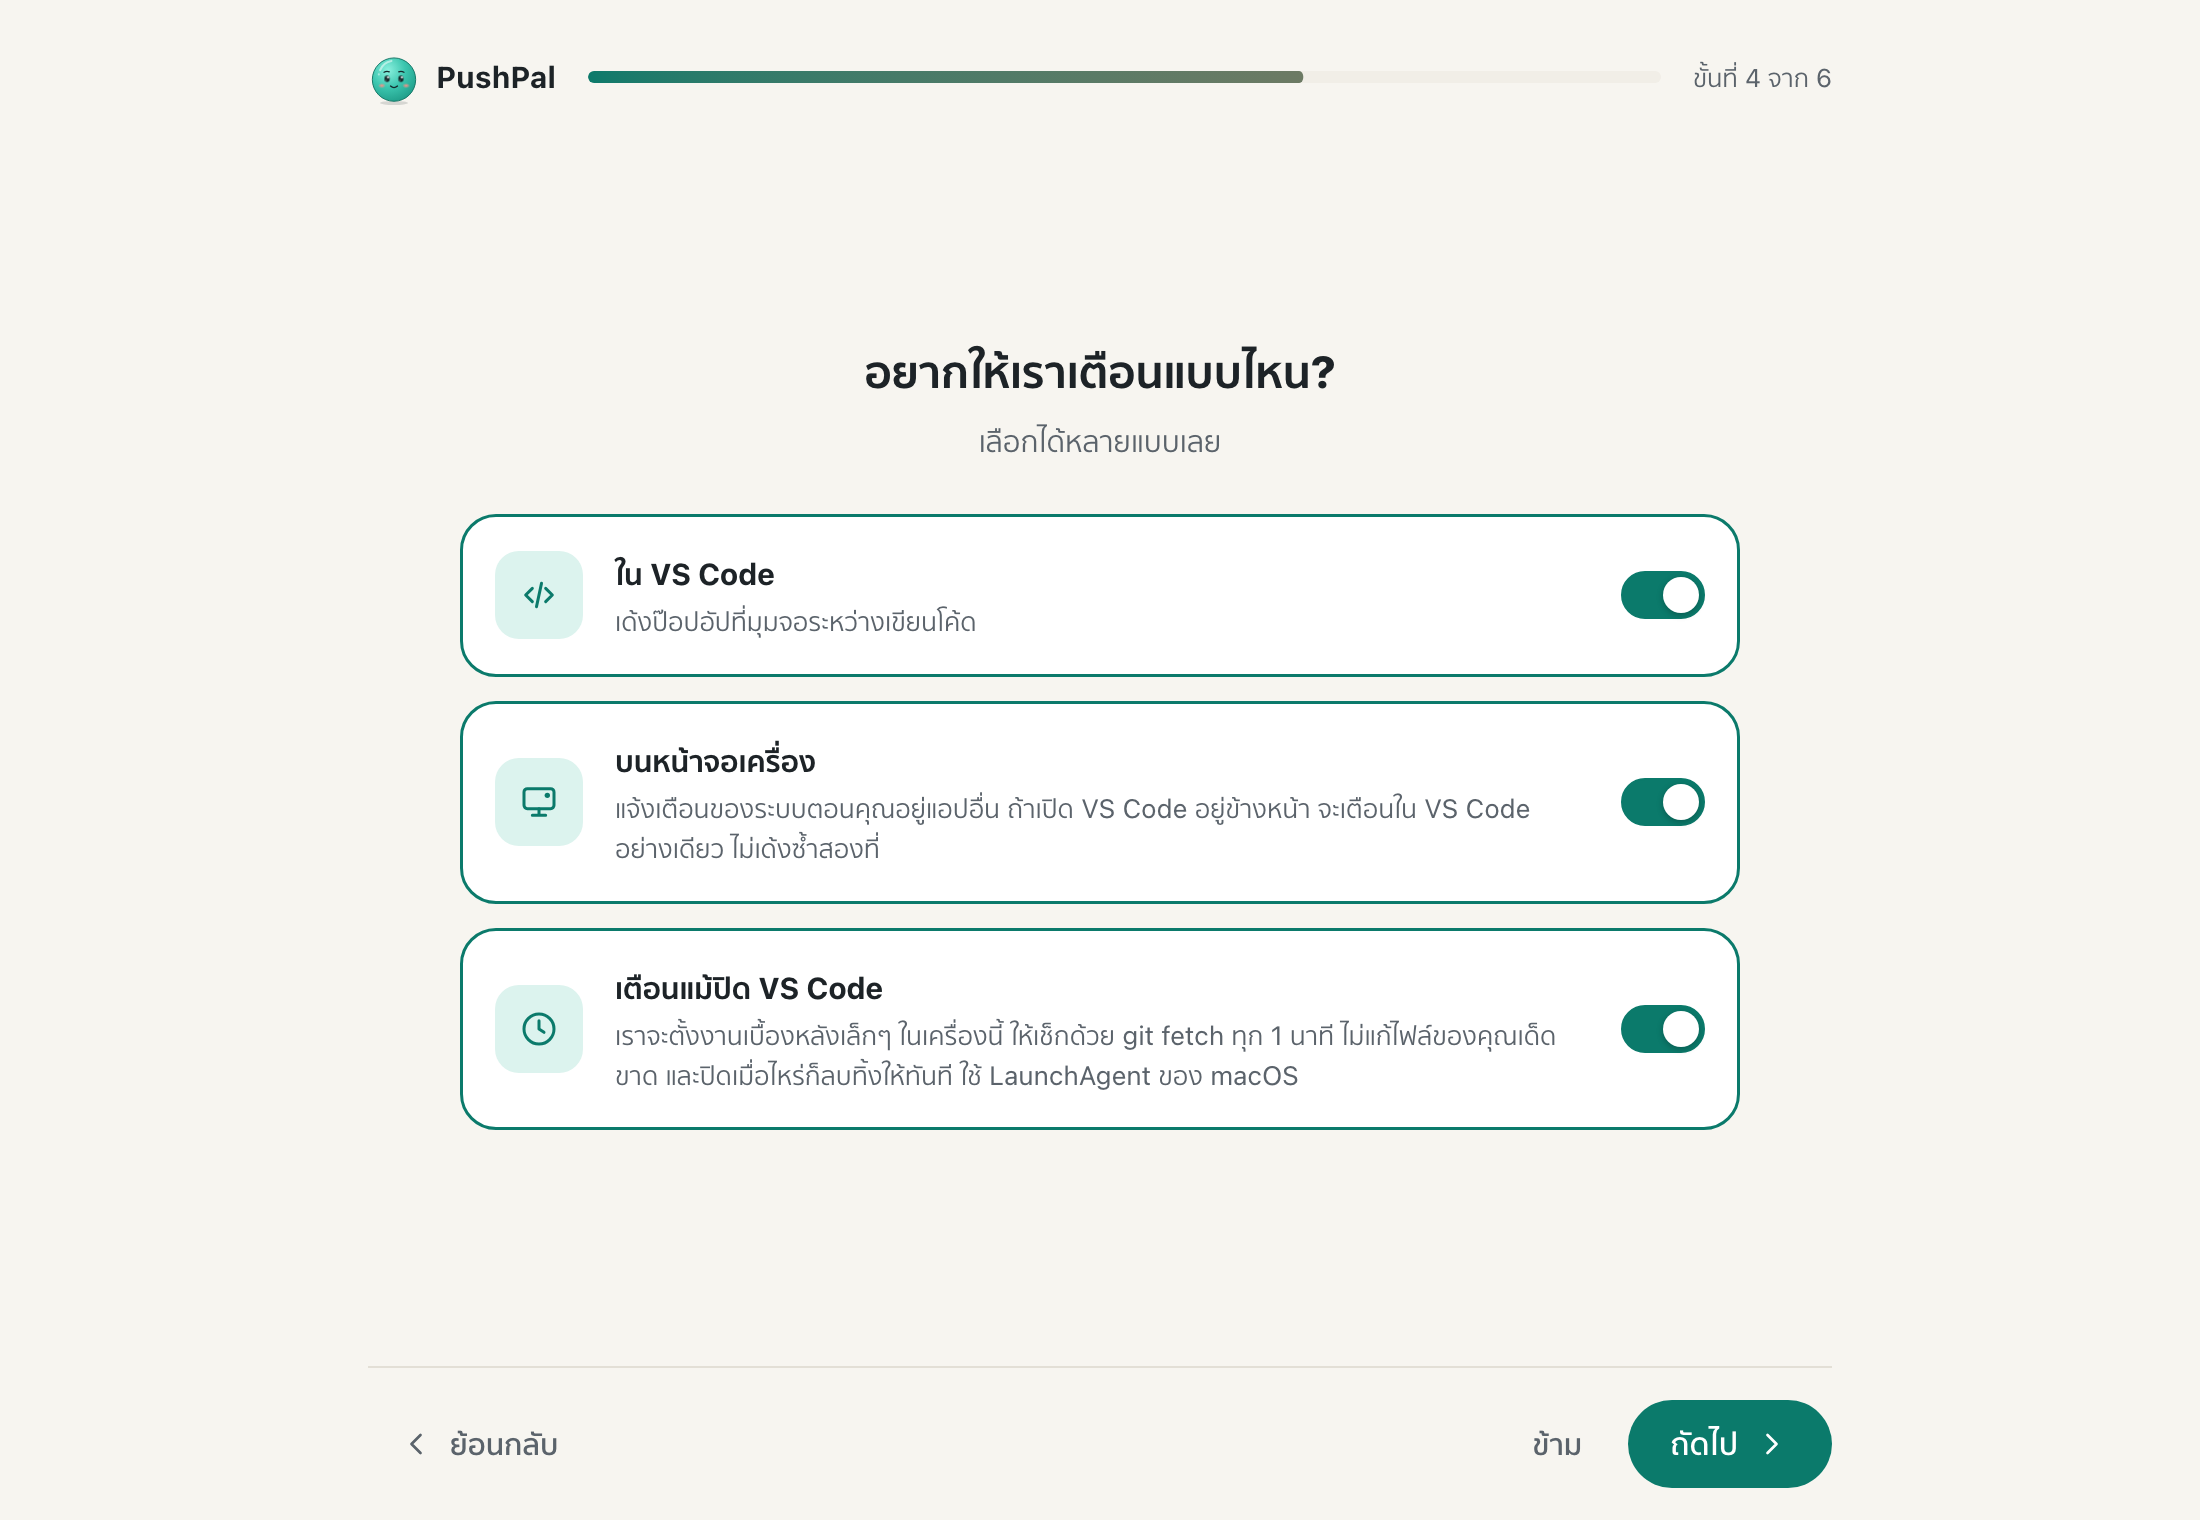
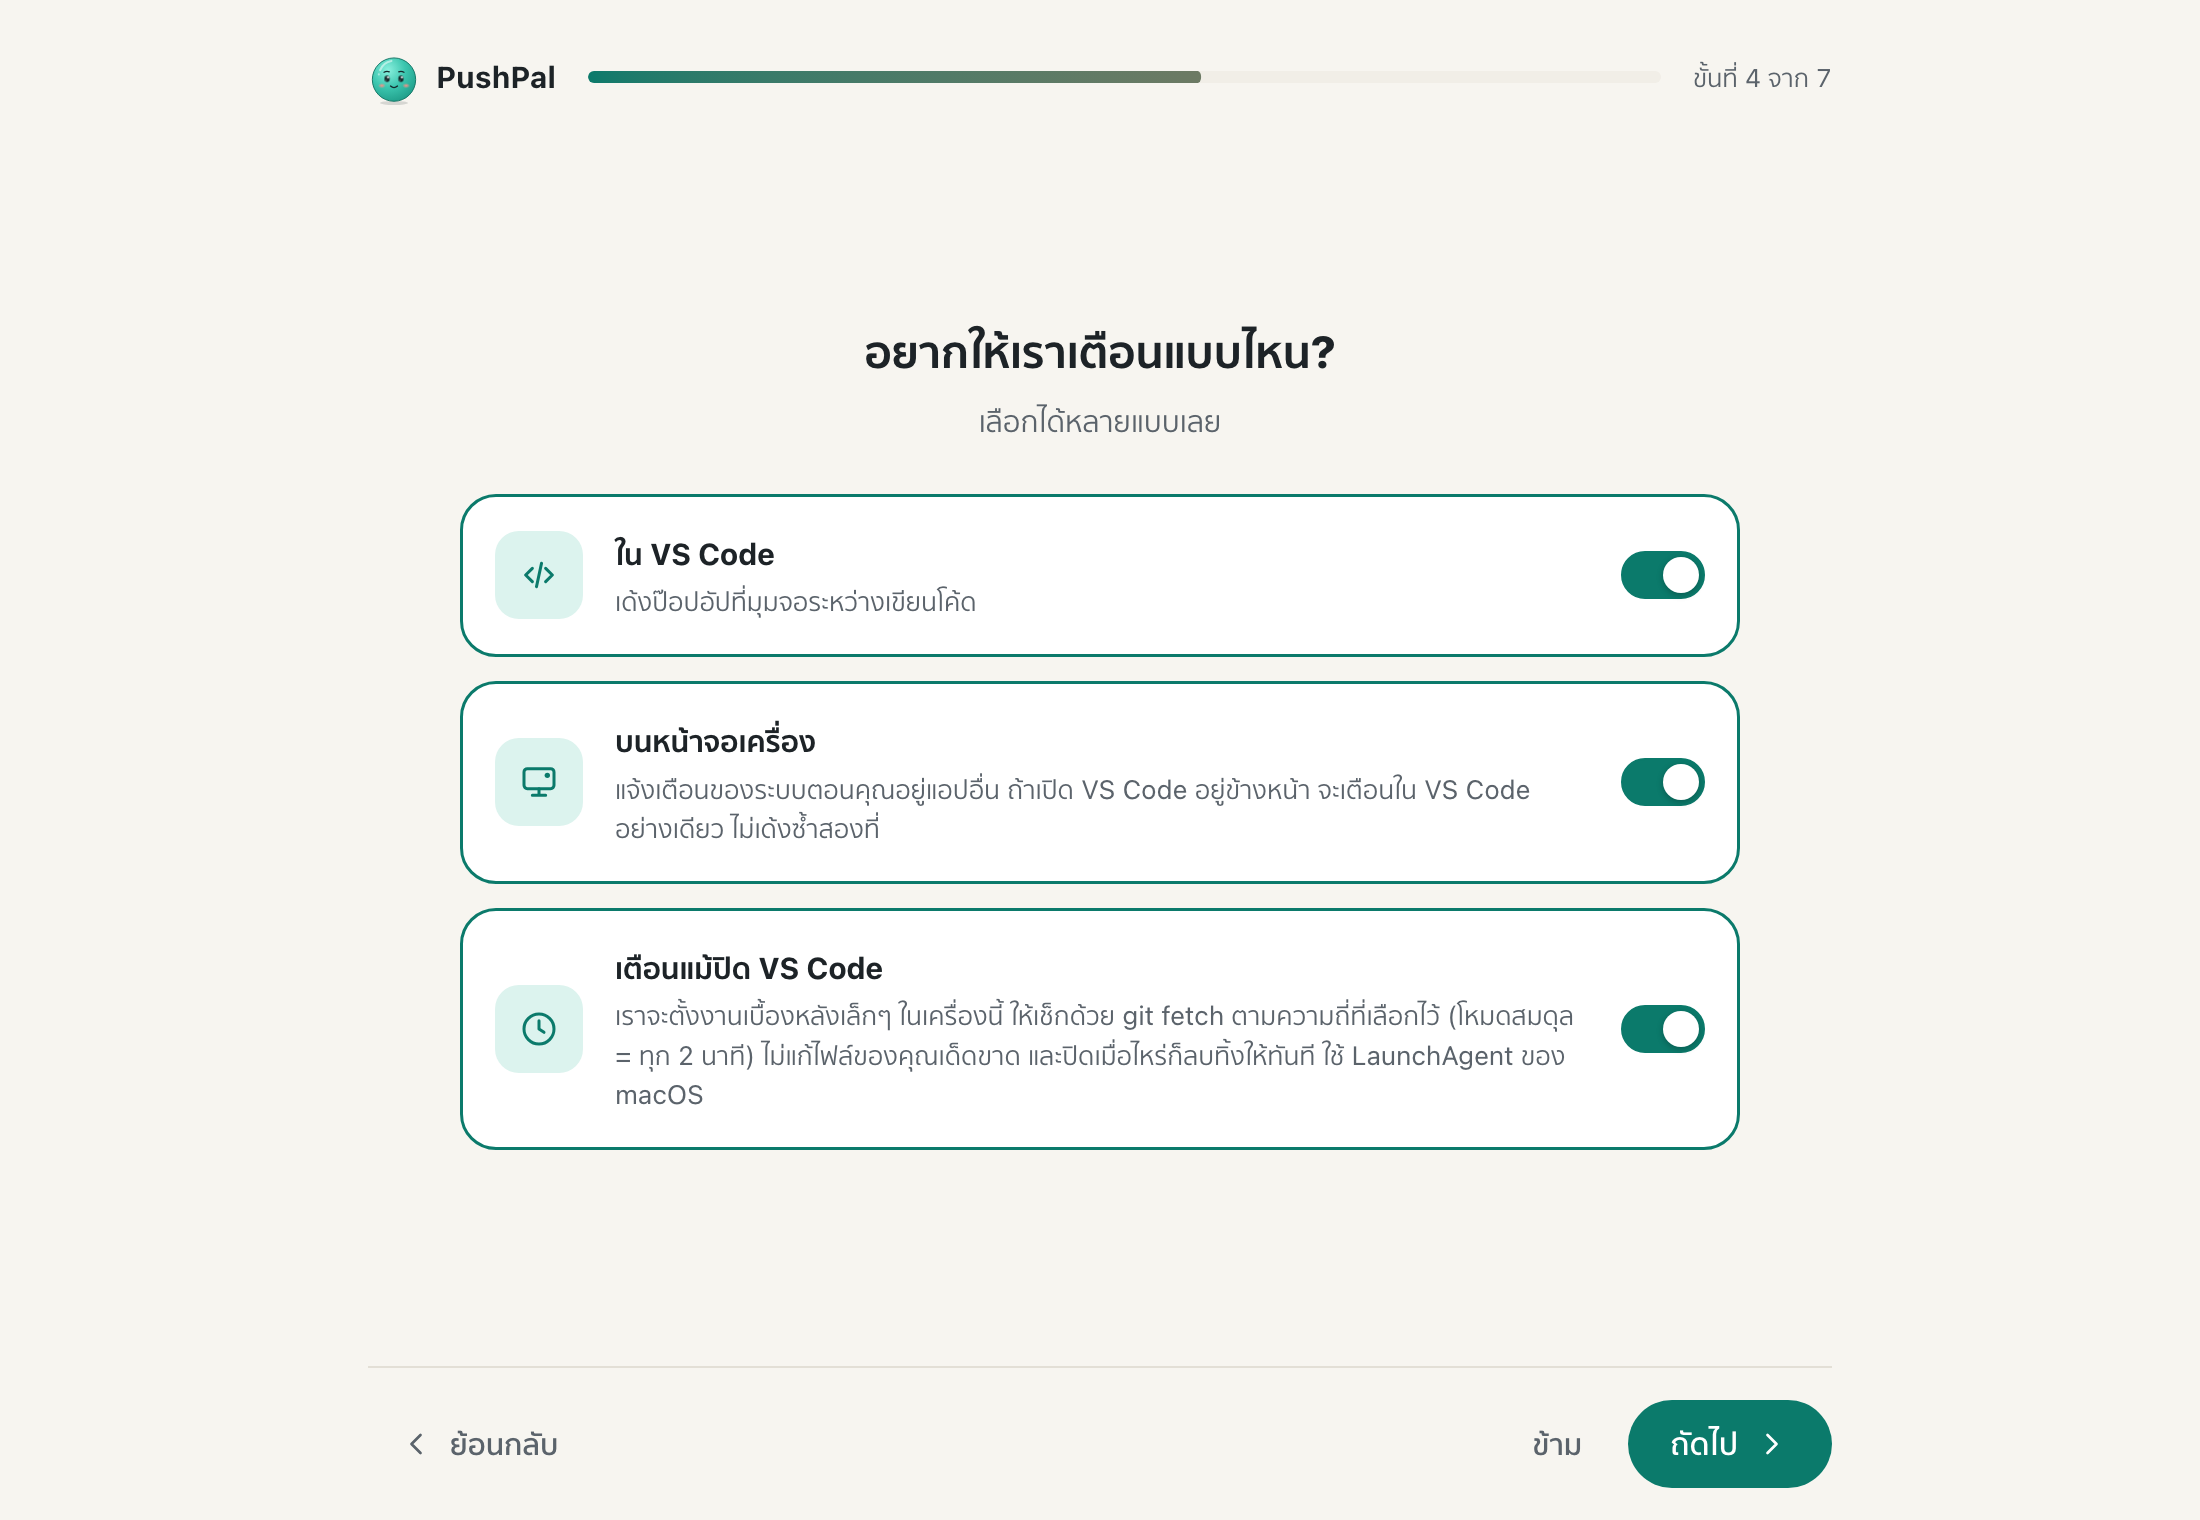
docs: frequency modes, battery saving and settings page; new screenshots

Changed region(s): [[0.2164, 0.2164, 0.8036, 0.773], [0.7418, 0.4947, 0.7727, 0.5566], [0.5564, 0.0309, 0.5873, 0.0618]]

diff --git a/DECISIONS.md b/DECISIONS.md
@@ -187,7 +187,7 @@ Newest sections are appended at the bottom of each topic.
   so closing it half-way doesn't nag on every start). "PushPal: ตั้งค่าใหม่ · Run Setup Again" reopens it.
 - One `WebviewPanel` in the editor area, `retainContextWhenHidden` so switching tabs doesn't lose the step.
   The current step is also kept with `vscode.setState`.
-- All six steps live in the same CSS grid cell, so the page height never jumps; the active step slides
+- All seven steps (a "how often" step was added in section 12) live in the same CSS grid cell, so the page height never jumps; the active step slides
   (48 px translate + fade, 380 ms ease-out), direction-aware for Back. The progress bar is a `scaleX` transform.
 - Language and theme are saved to Settings the moment they're picked (the whole wizard re-renders in the
   new language without a round-trip, and the status bar follows). Notification toggles are saved immediately
@@ -237,11 +237,81 @@ Newest sections are appended at the bottom of each topic.
 - `publisher` is a placeholder (`pushpal`) and the repo URL assumes `github.com/Pug-03/pushpal` (from the
   local git user name). PUBLISHING.md says to replace both before publishing.
 - CI: tests + typecheck + build on Ubuntu, macOS and Windows (Node 22) on every push; on a `v*` tag it packages
-  the .vsix and attaches it to a GitHub Release (`softprops/action-gh-release`). Automatic Marketplace /
-  Open VSX publishing is documented as an optional extra step, not enabled, because it needs secrets.
+  the .vsix and attaches it to a GitHub Release (`softprops/action-gh-release`), then publishes to the Marketplace /
+  Open VSX when the `VSCE_PAT` / `OVSX_PAT` secrets exist (skipped otherwise, so CI never fails for lack of them).
+  `npm run release` bumps the patch version, tags and pushes.
 - `.vscodeignore` is an allow-list: only `dist/*.js` (no source maps), `media/`, `l10n/`, manifest files,
   README, CHANGELOG and LICENSE go into the .vsix.
 - The package is built with `--production` (minified, no source maps) by `vscode:prepublish`.
 - `npm run smoke` runs the built extension inside the locally installed VS Code with an isolated
   `--user-data-dir` / `--extensions-dir` under `.vscode-test/` (git-ignored): activation, commands, the
   first-run wizard, the team view and a real pull with uncommitted work are all checked.
+
+## 12. Check frequency, battery saving and GitHub Actions (2026-10-22)
+
+- **One source of truth: the individual settings.** `pushpal.mode` is a label for a set of values. Picking a preset
+  (wizard, settings page, quick pick or the Settings UI) writes the preset's values into the individual settings;
+  editing any value by hand while a preset is active switches the mode to `custom`. Logic lives in
+  `src/core/frequency.ts` (`reconcileMode`, pure + tested) and `src/ext/modes.ts` (applies it to VS Code settings,
+  ignoring the configuration events caused by its own writes). Everything is written to User settings.
+- **Migration from 1.0.0**: `checkIntervalSeconds` defaults to 30 now. A user who had set e.g. 60 explicitly keeps 60 and
+  the mode becomes Custom on first start, instead of their value being overwritten by the Balanced preset.
+- **Presets** (active hours are not part of a preset, so switching mode never changes them):
+
+  | | normal | background | Actions | idle | low battery | low power |
+  |---|---|---|---|---|---|---|
+  | Fastest | 10 s | 60 s | 10 s | 10 min → 60 s | < 20% → 60 s | 60 s |
+  | Balanced | 30 s | 120 s | 20 s | 10 min → 60 s | < 20% → 60 s | 60 s |
+  | Battery saver | 60 s | 300 s | 30 s | 5 min → 180 s | < 30% → 180 s | 300 s |
+- **Ranges**: normal 10–300 s and Actions 10–120 s (as asked); background **60–3600 s**, because Windows Task Scheduler
+  can't repeat more often than once a minute and the LaunchAgent stays at a fixed 60 s tick (see below).
+  Out-of-range values (settings.json, the page, anything) are rounded, clamped, written back, and a warning names the
+  field, the bad value, the range and the value used. Malformed times fall back to 08:00 / 23:00.
+- **Battery rules only slow down.** When several apply the slowest wins, and a rule faster than the normal interval is
+  ignored. "Plugged in → normal" overrides every rule (it says "always"). A rule whose input is unknown
+  (no battery, probe failed) doesn't apply — PushPal never guesses "on battery".
+- **Reading the power state** (`src/core/power.ts`, no `vscode`, shared with the worker):
+  macOS `pmset -g batt`, `pmset -g` (lowpowermode), `ioreg` HIDIdleTime; Windows one PowerShell call reading WinRT
+  `PowerManager` (charge, supply, battery status, Energy Saver) and `GetLastInputInfo`; Linux `/sys/class/power_supply`,
+  `powerprofilesctl get`, `xprintidle` (each optional). The probe runs at most once a minute and only when a rule is on
+  (≈ 30 ms on macOS; a PowerShell start on Windows, hence the cache).
+- **Idle** = min(OS idle time, time since the last VS Code activity: typing, selection, editor/terminal switch, window
+  focus). VS Code activity is instant, so coming back to the keyboard re-evaluates immediately instead of after the
+  next probe. Where the OS idle time isn't available (Linux without xprintidle) only VS Code activity counts.
+- **Scheduler** (`src/ext/scheduler.ts`) replaces the fixed `setInterval`: the next check is due at
+  *last check + effective interval*, and the effective interval is recomputed on settings change, power probe and user
+  activity, so a change takes effect without waiting out the old interval. Focus-triggered checks still happen, except
+  outside the checking hours. "Check now" always works.
+- **Checking hours** work across midnight (22:00–06:00); start == end means all day. Outside them nothing is fetched
+  (VS Code or background); the status bar tooltip says when checks resume.
+- **Background job**: the OS schedule stays a fixed 1-minute tick; the worker decides whether a check is due from
+  `config.json` (`frequency`) and `worker-state.json` (`lastCheckAt`), with 10 s slack for launchd/Task Scheduler jitter.
+  The extension rewrites `config.json` within 300 ms of any PushPal setting change, so the very next tick uses the new
+  values — no re-registration of the LaunchAgent / task. The battery is probed only when the normal interval has
+  already passed (rules can only make it later). Configs written by 1.0.0 have no `frequency` and keep running every tick.
+- **Status bar**: the existing item's tooltip gains "why" (e.g. "Checking every 1 min right now because the battery is
+  at 15%") and the mode with "Switch mode" / "Settings" command links. **Right-click isn't possible**: VS Code's API has
+  no context-menu contribution point for an extension's status bar item, so quick switching is the
+  "PushPal: Switch Check Mode" command plus the tooltip link.
+- **Estimates are measured, not guessed.** `scripts/measure-fetch.mjs` sends PushPal's exact fetch command through a
+  local CONNECT proxy that counts every byte both ways (TLS included). Against github.com: 5,457 B for a 1-ref remote;
+  `ls-refs` grows ≈ 58 B per branch/tag (28,030 B at 372 refs, 120,019 B at 2,032 refs). So one check ≈
+  5,400 + 58 × refs bytes, with refs counted from the repo's own remote-tracking refs + tags. One Actions API call
+  ≈ 7,300 B (gzip), a 304 ≈ 5,200 B. SSH wasn't measured (no key on the test machine); the HTTPS figure is used for all.
+- **GitHub Actions** (`src/core/ciRuns.ts`, `src/ext/ciWatcher.ts`): when a repo's upstream sha changes (anyone's push,
+  including your own), PushPal asks once for runs of that commit, keeps asking for up to 3 minutes until runs appear,
+  then polls only while a run is queued / in progress, and announces pass/fail (only for runs it saw running, so old
+  results aren't announced on startup). Auth uses VS Code's built-in GitHub sign-in silently (`repo` scope); without it
+  public repos still work, but polling is held to ≥ 60 s because GitHub allows 60 unauthenticated requests per hour.
+  ETags are sent so unchanged results come back as 304. Not done in the background worker (no token there).
+- **Settings page** (`src/ext/settingsPage.ts`, `media/settings.*`): rendered once, then patched in place on every
+  update, so a slider drag, a focused input or the mode-card animation is never interrupted by the echo of its own
+  change. Sliders post on release; numbers on change/Enter. Toggles and option cards share `media/controls.css`
+  with the wizard (moved out of `wizard.css`). Restore defaults is a two-step button (no `confirm()` in webviews).
+  Clamped fields flash and the notice says what changed.
+- Tests: `test/frequency.test.ts` (modes, clamping, each battery rule, plugged in, slowest wins, checking hours across
+  midnight, estimates, power-output parsers, Actions parsing/fetch with a fake `fetch`) and new worker cases in
+  `test/background.test.ts` (due / not due, new config applied on the next run, outside hours, battery rules through
+  `PUSHPAL_TEST_POWER`). The smoke test also switches modes in a real VS Code and checks the sync, the clamping,
+  `config.json` and the settings page.
+

diff --git a/CHANGELOG.md b/CHANGELOG.md
@@ -2,6 +2,17 @@
 
 ## Unreleased
 
+- Check frequency modes: ⚡ Fastest (10 s), ⚖ Balanced (30 s, new default), 🔋 Battery saver (60 s) and 🛠 Custom,
+  in the setup wizard (new step) and the settings page, each with checks/hour and data/hour estimates from measured fetch sizes
+- Automatic battery saving: idle, low battery (not plugged in), Low Power Mode / Battery Saver, plugged in = normal;
+  the status bar tooltip explains when and why checks are slower
+- Checking hours (e.g. 08:00–23:00), honoured by the background job too
+- Separate background interval (60–3600 s); the background job re-reads its settings on every run
+- GitHub Actions watcher: status bar progress while tests run, a message when they pass or fail
+- New “PushPal Settings” page (Notifications / Frequency & battery / Language & theme / GitHub), live two-way sync with
+  VS Code Settings, Restore defaults; new command “PushPal: Switch Check Mode”
+- Values outside their range are pulled back in and you're told what changed
+- `pushpal.checkIntervalSeconds` now allows 10–300 s (default 30). An explicit value from 1.0.0 is kept and the mode becomes Custom
 - New mascot: Pal is now a round face whose brows, eyes, mouth and cheeks change with the state
 - Poke Pal: it squishes, bounces and giggles, and gets dizzy if you poke too fast
 - Activity bar icon matches the new face
